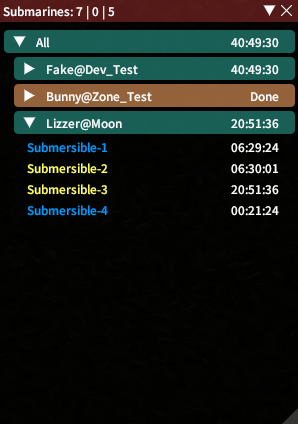
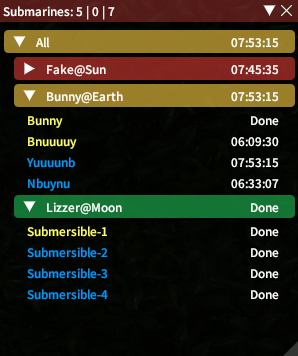
Fix clipping issues in overlay & added leveling allowed sectors

diff --git a/SubmarineTracker/Windows/Builder/BuilderWindow.Leveling.cs b/SubmarineTracker/Windows/Builder/BuilderWindow.Leveling.cs
@@ -6,6 +6,7 @@ using Dalamud.Logging;
 using Newtonsoft.Json;
 using SubmarineTracker.Data;
 using static SubmarineTracker.Data.Sectors;
+using static SubmarineTracker.Utils;
 
 namespace SubmarineTracker.Windows.Builder;
 
@@ -42,6 +43,9 @@ public partial class BuilderWindow
 
     private Dictionary<int, Journey> LastCalc = new();
     private (string Limit, bool IgnoreBuild, bool IgnoreUnlocks, bool MaximizeDurationLimit) LastOptions = ("", false, false, false);
+
+    private bool AllowedChanged;
+    private List<SubmarineExplorationPretty> AllowedSectors = new();
 
     private static string MiscFolder = null!;
     private static void InitializeLeveling() => MiscFolder = Path.Combine(Plugin.PluginInterface.ConfigDirectory.FullName, "Misc");
@@ -132,6 +136,56 @@ public partial class BuilderWindow
                 ImGui.EndCombo();
             }
 
+            ImGui.TextColored(ImGuiColors.DalamudViolet, $"--Experimental-- Allowed Sectors: {AllowedSectors.Count}");
+
+            if (AllowedChanged)
+            {
+                AllowedChanged = false;
+                ExcelSheetSelector.FilteredSearchSheet = null!;
+            }
+
+            var listHeight = ImGui.CalcTextSize("X").Y * 6.5f; // 5 items max, we give padding space for 6.5
+            ImGui.PushFont(UiBuilder.IconFont);
+            ImGui.Button(FontAwesomeIcon.Plus.ToIconString(), new Vector2(30.0f * ImGuiHelpers.GlobalScale, listHeight));
+            ImGui.PopFont();
+            ExcelSheetSelector.ExcelSheetPopupOptions<SubmarineExplorationPretty> explorationPopupOptions = new()
+            {
+                FormatRow = e => $"{NumToLetter(e.RowId - Voyage.FindVoyageStartPoint(e.RowId))}. {UpperCaseStr(e.Destination)} (Rank {e.RankReq})",
+                FilteredSheet = ExplorationSheet.Where(r => r.RankReq > 0).Where(r => !r.StartingPoint).Where(r => !AllowedSectors.Contains(r))
+            };
+
+            if (ExcelSheetSelector.ExcelSheetPopup("LevelingMustIncludeAddPopup", out var row, explorationPopupOptions))
+            {
+                var point = ExplorationSheet.GetRow(row)!;
+                if (!AllowedSectors.Contains(point))
+                {
+                    AllowedSectors.Add(point);
+                    AllowedChanged = true;
+                }
+            }
+
+            ImGui.SameLine();
+            if (ImGui.BeginListBox("##AllowedSectors", new Vector2(-1, listHeight)))
+            {
+                foreach (var p in AllowedSectors.ToArray().OrderBy(p => p.RowId))
+                {
+                    if (ImGui.Selectable($"{MapToThreeLetter(p.RowId, true)} - {NumToLetter(p.RowId, true)}. {UpperCaseStr(p.Destination)}"))
+                    {
+                        AllowedChanged = true;
+                        AllowedSectors.Remove(p);
+                    }
+                }
+                ImGui.EndListBox();
+            }
+
+            if (ImGui.Button("Clear"))
+            {
+                AllowedChanged = true;
+                AllowedSectors.Clear();
+            }
+
+            ImGuiHelpers.ScaledDummy(5.0f);
+
             if (LastCalc.Any())
             {
                 var lastIdx = LastCalc.Last().Key;
@@ -163,7 +217,7 @@ public partial class BuilderWindow
                     var (i, (rankReached, leftover, routeExp, points, build)) = pair;
                     var startPoint = Voyage.FindVoyageStartPoint(points[0]);
                     ImGui.TextColored(ImGuiColors.HealerGreen, $"Build: {build}");
-                    ImGui.TextColored(ImGuiColors.HealerGreen, $"Voyage {i}: {Utils.MapToThreeLetter(ExplorationSheet.GetRow(startPoint)!.Map.Row)} {string.Join(" -> ", points.Select(p => Utils.NumToLetter(p - startPoint)))}");
+                    ImGui.TextColored(ImGuiColors.HealerGreen, $"Voyage {i}: {MapToThreeLetter(ExplorationSheet.GetRow(startPoint)!.Map.Row)} {string.Join(" -> ", points.Select(p => NumToLetter(p - startPoint)))}");
                     ImGui.TextColored(ImGuiColors.HealerGreen, $"Exp Gained: {routeExp:N0}");
                     ImGui.TextColored(ImGuiColors.HealerGreen, $"Rank Reached: {rankReached} - {GetRemaindExp(rankReached, leftover):P}%");
                 });
@@ -252,6 +306,13 @@ public partial class BuilderWindow
                             .Where(f => ExplorationSheet.Where(t => t.StartingPoint).Select(t => t.RowId + 1).Contains(f.RowId))
                             .Where(r => IgnoreUnlocks || fcSub.UnlockedSectors[r.RowId])
                             .ToDictionary(t => t.RankReq, t => (int)t.Map.Row);
+            if (AllowedSectors.Any())
+            {
+                mapBreaks = ExplorationSheet
+                            .Where(f => ExplorationSheet.Where(t => t.StartingPoint).Select(t => t.RowId + 1).Contains(f.RowId))
+                            .Where(r => AllowedSectors.Contains(r))
+                            .ToDictionary(t => t.RankReq, t => (int)t.Map.Row);
+            }
 
             ProgressRank = CurrentBuild.Rank;
 

diff --git a/SubmarineTracker/Windows/Overlay/Overlay.cs b/SubmarineTracker/Windows/Overlay/Overlay.cs
@@ -10,8 +10,11 @@ public class OverlayWindow : Window, IDisposable
     private Configuration Configuration;
 
     private readonly Vector4 TransparentBackground = new(0.0f, 0.0f, 0.0f, 0.8f);
-    private readonly Vector4 TransparentCustomGreen = new(0.957f, 0.635f, 0.38f, 0.6f);
-    private readonly Vector4 TransparentCustomCyan = new(0.165f, 0.616f, 0.561f, 0.6f);
+    private readonly Vector4 CustomFullyDone = new(0.12549f, 0.74902f, 0.33333f, 0.6f);
+    private readonly Vector4 CustomPartlyDone = new(1.0f, 0.81569f, 0.27451f, 0.6f);
+    private readonly Vector4 CustomOnRoute = new(0.85882f, 0.22745f, 0.20392f, 0.6f);
+
+    private (int OnRoute, int Done, int Halt) VoyageStats = (0, 0, 0);
 
     public OverlayWindow(Plugin plugin, Configuration configuration) : base("Submarines: 0|0|0###submarineOverlay")
     {
@@ -31,22 +34,22 @@ public class OverlayWindow : Window, IDisposable
 
     public override void PreDraw()
     {
-        (int OnRoute, int Done, int Halt) voyageStats = (0, 0, 0);
+        VoyageStats = (0, 0, 0);
         foreach (var sub in Submarines.KnownSubmarines.Values.SelectMany(fc => fc.Submarines))
         {
             if (sub.IsOnVoyage())
             {
                 if (sub.IsDone())
-                    voyageStats.Done += 1;
+                    VoyageStats.Done += 1;
                 else
-                    voyageStats.OnRoute += 1;
+                    VoyageStats.OnRoute += 1;
 
                 continue;
             }
 
-            voyageStats.Halt += 1;
+            VoyageStats.Halt += 1;
         }
-        WindowName = $"Submarines: {voyageStats.Done} | {voyageStats.Halt} | {voyageStats.OnRoute}###submarineOverlay";
+        WindowName = $"Submarines: {VoyageStats.Done} | {VoyageStats.Halt} | {VoyageStats.OnRoute}###submarineOverlay";
 
         ImGui.PushStyleColor(ImGuiCol.WindowBg, TransparentBackground);
     }
@@ -66,10 +69,13 @@ public class OverlayWindow : Window, IDisposable
         if (timerSub == null)
             return;
 
-        var windowWidth = ImGui.GetWindowWidth() - (20.0f * ImGuiHelpers.GlobalScale);
+        var scrollbarSpacing = ImGui.GetScrollMaxY() > 0.0f ? ImGui.GetStyle().ScrollbarSize : 0;
+        var windowWidth = ImGui.GetWindowWidth() - (20.0f * ImGuiHelpers.GlobalScale) - scrollbarSpacing;
         var y = ImGui.GetCursorPosY();
-        ImGui.PushStyleColor(ImGuiCol.Header, timerSub.IsDone() ? TransparentCustomGreen : TransparentCustomCyan);
-        var mainHeader = ImGui.CollapsingHeader("All");
+        ImGui.PushStyleColor(ImGuiCol.Header, VoyageStats is { Done: > 0, OnRoute: > 0 }
+                                                  ? CustomPartlyDone : VoyageStats.OnRoute == 0
+                                                      ? CustomFullyDone : CustomOnRoute);
+        var mainHeader = ImGui.CollapsingHeader("All###overlayAll");
         ImGui.PopStyleColor();
 
         SetHeaderText(timerSub, windowWidth, y);
@@ -85,10 +91,11 @@ public class OverlayWindow : Window, IDisposable
                 continue;
 
             y = ImGui.GetCursorPosY();
+            var anySubDone = fc.Submarines.Any(s => s.IsDone());
             var longestSub = fc.GetLongestReturn();
 
-            ImGui.PushStyleColor(ImGuiCol.Header, longestSub.IsDone() ? TransparentCustomGreen : TransparentCustomCyan);
-            var header = ImGui.CollapsingHeader($"{Helper.BuildNameHeader(fc, Configuration.UseCharacterName)}##{id}");
+            ImGui.PushStyleColor(ImGuiCol.Header, longestSub.IsDone() ? CustomFullyDone : anySubDone ? CustomPartlyDone : CustomOnRoute);
+            var header = ImGui.CollapsingHeader($"{Helper.BuildNameHeader(fc, Configuration.UseCharacterName)}###overlayFC{id}");
             ImGui.PopStyleColor();
 
             SetHeaderText(longestSub, windowWidth, y);
@@ -99,9 +106,11 @@ public class OverlayWindow : Window, IDisposable
             ImGui.Indent(10.0f);
             foreach (var sub in fc.Submarines)
             {
-                ImGui.TextColored(sub.PredictDurability() > 0
-                                      ? ImGuiColors.TankBlue
-                                      : ImGuiColors.DalamudYellow, sub.Name);
+                var notNeedsRepair = sub.PredictDurability() > 0;
+                ImGui.TextColored(notNeedsRepair ? ImGuiColors.TankBlue : ImGuiColors.DalamudYellow, sub.Name);
+
+                if (!notNeedsRepair && ImGui.IsItemHovered())
+                    ImGui.SetTooltip("This submarine will need repairs");
 
                 var timeText = Helper.GenerateVoyageText(sub);
                 var timeWidth = ImGui.CalcTextSize(timeText).X;

diff --git a/SubmarineTracker/Utils.cs b/SubmarineTracker/Utils.cs
@@ -1,3 +1,4 @@
+using System.Text;
 using Dalamud.Game.Text.SeStringHandling;
 using Dalamud.Utility;
 using SubmarineTracker.Data;
@@ -8,8 +9,30 @@ public static class Utils
 {
     public static string ToStr(SeString content) => content.ToString();
     public static string ToStr(Lumina.Text.SeString content) => content.ToDalamudString().ToString();
-    public static string UpperCaseStr(Lumina.Text.SeString content) => string.Join(" ", content.ToDalamudString().ToString().Split(' ').Select(t => string.Concat(t[0].ToString().ToUpper(), t.AsSpan(1))));
     public static string ToTime(TimeSpan time) => $"{(int)time.TotalHours:#00}:{time:mm}:{time:ss}";
+
+    public static string UpperCaseStr(Lumina.Text.SeString s, sbyte article = 0)
+    {
+        if (article == 1)
+            return s.ToDalamudString().ToString();
+
+        var sb = new StringBuilder(s.ToDalamudString().ToString());
+        var lastSpace = true;
+        for (var i = 0; i < sb.Length; ++i)
+        {
+            if (sb[i] == ' ')
+            {
+                lastSpace = true;
+            }
+            else if (lastSpace)
+            {
+                lastSpace = false;
+                sb[i]     = char.ToUpperInvariant(sb[i]);
+            }
+        }
+
+        return sb.ToString();
+    }
 
     public static string MapToShort(int key) => MapToShort((uint)key);
     public static string MapToShort(uint key)
@@ -24,9 +47,12 @@ public static class Utils
         };
     }
 
-    public static string MapToThreeLetter(int key) => MapToThreeLetter((uint) key);
-    public static string MapToThreeLetter(uint key)
+    public static string MapToThreeLetter(int key, bool resolveToMap = false) => MapToThreeLetter((uint) key, resolveToMap);
+    public static string MapToThreeLetter(uint key, bool resolveToMap = false)
     {
+        if (resolveToMap)
+            key = Voyage.SectorToMap(key);
+
         return key switch
         {
             1 => "DSS",
@@ -38,8 +64,11 @@ public static class Utils
         };
     }
 
-    public static string NumToLetter(uint num)
+    public static string NumToLetter(uint num, bool findStart = false)
     {
+        if (findStart)
+            num -= Voyage.FindVoyageStartPoint(num);
+
         var index = (int)(num - 1);  // 0 indexed
 
         const string letters = "ABCDEFGHIJKLMNOPQRSTUVWXYZ";

diff --git a/SubmarineTracker/Windows/Builder/BuilderWindow.Stats.cs b/SubmarineTracker/Windows/Builder/BuilderWindow.Stats.cs
@@ -1,4 +1,3 @@
-using Dalamud.Logging;
 using SubmarineTracker.Data;
 using static SubmarineTracker.Utils;
 
@@ -22,8 +21,12 @@ public partial class BuilderWindow
             var optimizedDuration = Voyage.CalculateDuration(optimizedPoints, build);
             var breakpoints = Sectors.CalculateBreakpoint(CurrentBuild.Sectors);
             var expPerMinute = 0.0;
+            var totalExp = 0u;
             if (optimizedDuration != 0 && CurrentBuild.OptimizedDistance != 0)
-                expPerMinute = Sectors.CalculateExpForSectors(CurrentBuild.OptimizedRoute, CurrentBuild.GetSubmarineBuild) / (optimizedDuration / 60.0);
+            {
+                totalExp = Sectors.CalculateExpForSectors(CurrentBuild.OptimizedRoute, CurrentBuild.GetSubmarineBuild);
+                expPerMinute = totalExp / (optimizedDuration / 60.0);
+            }
 
             var tanks = 0u;
             if (Plugin.AllaganToolsConsumer.IsAvailable)
@@ -113,6 +116,13 @@ public partial class BuilderWindow
                 ImGui.TextColored(ImGuiColors.HealerGreen, $"Fuel");
                 ImGui.TableNextColumn();
                 ImGui.TextUnformatted($"{CurrentBuild.FuelCost}{(tanks > 0 ? $" / {tanks}" : "")}");
+
+                ImGui.TableNextRow();
+
+                ImGui.TableNextColumn();
+                ImGui.TextColored(ImGuiColors.HealerGreen, $"Total Exp");
+                ImGui.TableNextColumn();
+                ImGui.TextUnformatted($"{totalExp:N0}");
 
                 ImGui.EndTable();
             }

diff --git a/SubmarineTracker/Windows/Builder/BuilderWindow.ExpOptimization.cs b/SubmarineTracker/Windows/Builder/BuilderWindow.ExpOptimization.cs
@@ -41,9 +41,16 @@ public partial class BuilderWindow
             try
             {
                 valid = ExplorationSheet
+                        .Where(r => r.Map.Row == routeBuild.Map + 1 && !r.StartingPoint && r.RankReq <= routeBuild.Rank)
+                        .Where(r => IgnoreUnlocks || fcSub.UnlockedSectors[r.RowId])
+                        .ToList();
+                if (AllowedSectors.Any())
+                {
+                    valid = ExplorationSheet
                             .Where(r => r.Map.Row == routeBuild.Map + 1 && !r.StartingPoint && r.RankReq <= routeBuild.Rank)
-                            .Where(r => IgnoreUnlocks || fcSub.UnlockedSectors[r.RowId])
+                            .Where(r => AllowedSectors.Contains(r))
                             .ToList();
+                }
                 highestRank = valid.Max(r => r.RankReq);
             }
             catch (KeyNotFoundException)

diff --git a/SubmarineTracker/Data/Voyage.cs b/SubmarineTracker/Data/Voyage.cs
@@ -15,6 +15,11 @@ public static class Voyage
         ExplorationSheet = Plugin.Data.GetExcelSheet<SubmarineExploration>()!;
     }
 
+    public static uint SectorToMap(uint sector)
+    {
+        return ExplorationSheet.GetRow(FindVoyageStartPoint(sector))!.Map.Row;
+    }
+
     public static uint FindVoyageStartPoint(uint point)
     {
         var startPoints = ExplorationSheet.Where(s => s.StartingPoint).Select(s => s.RowId).ToList();
